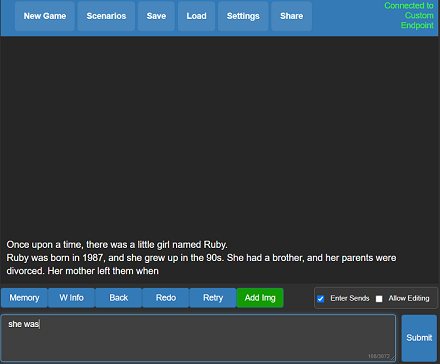
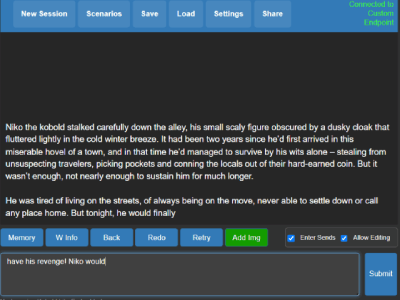
update images (+3 squashed commit)
Squashed commit:

[4d5f17ad] update readme

[cd000215] resize image

[eca91721] try add more media

diff --git a/README.md b/README.md
@@ -3,10 +3,13 @@
 KoboldCpp is an easy-to-use AI text-generation software for GGML models. It's a single self contained distributable from Concedo, that builds off llama.cpp, and adds a versatile Kobold API endpoint, additional format support, backward compatibility, as well as a fancy UI with persistent stories, editing tools, save formats, memory, world info, author's note, characters, scenarios and everything Kobold and Kobold Lite have to offer.
 
 ![Preview](media/preview.png)
+![Preview](media/preview2.png)
+![Preview](media/preview3.png)
+![Preview](media/preview4.png)
 
 ## Usage
 - **[Download the latest .exe release here](https://github.com/LostRuins/koboldcpp/releases/latest)** or clone the git repo.
-- Windows binaries are provided in the form of **koboldcpp.exe**, which is a pyinstaller wrapper for a few **.dll** files and **koboldcpp.py**. If you feel concerned, you may prefer to rebuild it yourself with the provided makefiles and scripts.
+- Windows binaries are provided in the form of **koboldcpp.exe**, which is a pyinstaller wrapper for a few **.dll** files and **koboldcpp.py**. You can also rebuild it yourself with the provided makefiles and scripts.
 - Weights are not included, you can use the official llama.cpp `quantize.exe` to generate them from your official weight files (or download them from other places such as [TheBloke's Huggingface](https://huggingface.co/TheBloke).
 - To run, execute **koboldcpp.exe** or drag and drop your quantized `ggml_model.bin` file onto the .exe, and then connect with Kobold or Kobold Lite. If you're not on windows, then run the script **KoboldCpp.py** after compiling the libraries.
 - Launching with no command line arguments displays a GUI containing a subset of configurable settings. Generally you dont have to change much besides the `Presets` and `GPU Layers`. Read the `--help` for more info about each settings.
@@ -63,6 +66,7 @@ For more information, be sure to run the program with the `--help` flag.
 - Since v1.0.6, requires libopenblas, the prebuilt windows binaries are included in this repo. If not found, it will fall back to a mode without BLAS.
 - Since v1.15, requires CLBlast if enabled, the prebuilt windows binaries are included in this repo. If not found, it will fall back to a mode without CLBlast.
 - Since v1.33, you can set the context size to be above what the model supports officially. It does increases perplexity but should still work well below 4096 even on untuned models. (For GPT-NeoX, GPT-J, and LLAMA models) Customize this with `--ropeconfig`.
+- Since v1.42, supports GGUF models for LLAMA and Falcon
 - **I plan to keep backwards compatibility with ALL past llama.cpp AND alpaca.cpp models**. But you are also encouraged to reconvert/update your models if possible for best results.
 
 ## License
